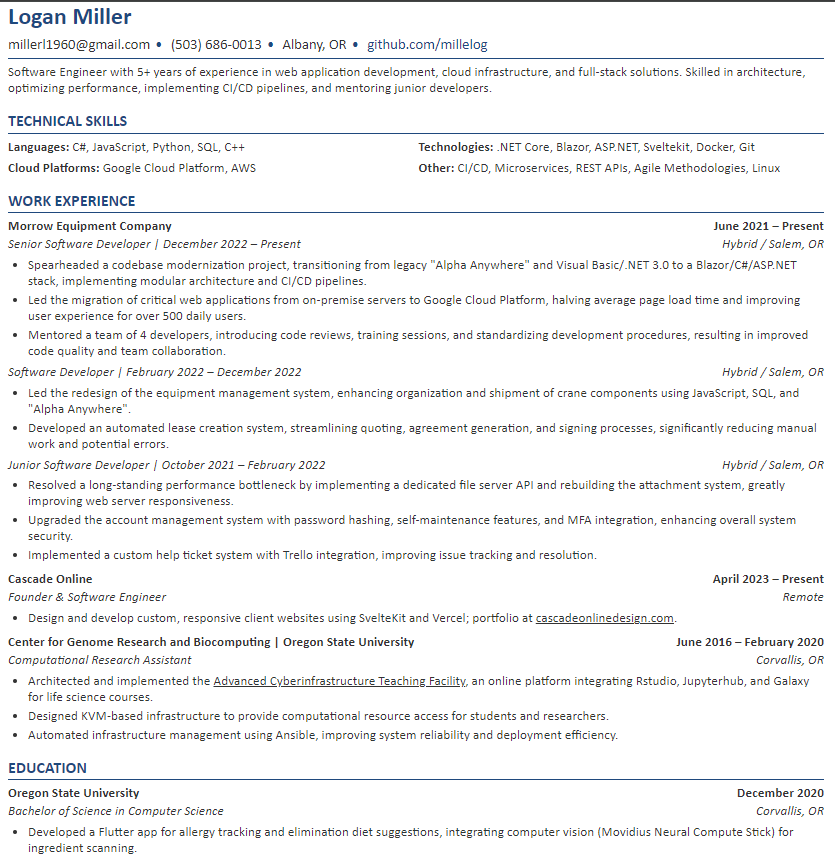
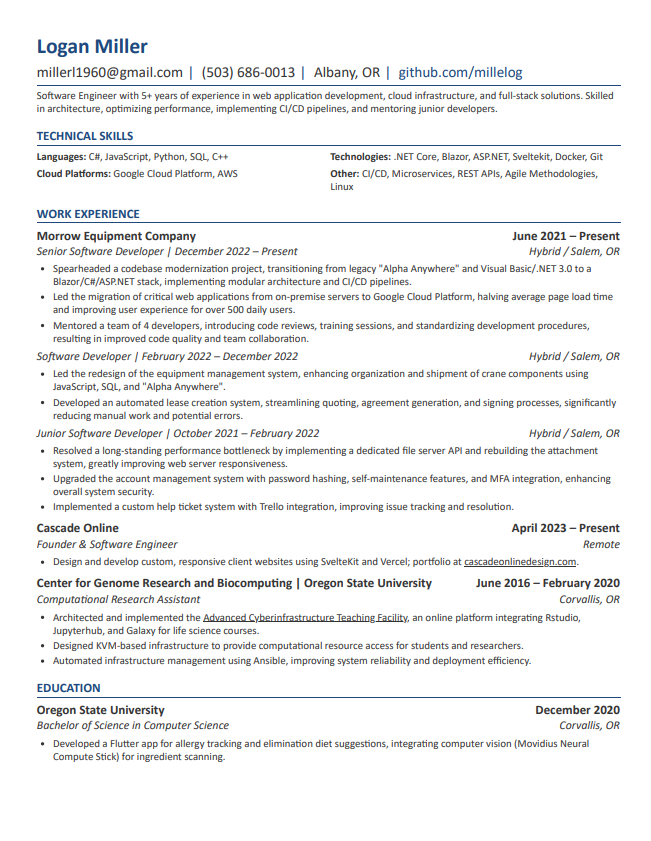
Cover letter working, main.yaml, readme updates

Changed region(s): [[0.0, 0.0, 1.0, 0.9893]]

diff --git a/templates/resume_template.html b/templates/resume_template.html
@@ -21,7 +21,7 @@
         h1 {
             color: #1F497D;
             margin: 0 0 5px 0;
-            font-size: 18pt;
+            font-size: 20pt;
         }
         h2 {
             color: #1F497D;
@@ -32,10 +32,10 @@
         }
         .contact-info {
             margin-bottom: 5px;
-            font-size: 11pt;
+            font-size: 14pt;
         }
         .contact-info span:not(:last-child)::after {
-            content: "•";
+            content: "|";
             margin: 0 5px;
             color: #1F497D;
         }
@@ -50,11 +50,13 @@
             justify-content: space-between;
             font-weight: bold;
             margin-bottom: 2px;
+            font-size: 12pt;
         }
         .job-subheader {
             display: flex;
             justify-content: space-between;
             font-style: italic;
+            font-size: 11pt;
         }
         ul {
             margin: 5px 0;

diff --git a/templates/cover_letter_template.html b/templates/cover_letter_template.html
@@ -28,10 +28,10 @@
             font-size: 11pt;
         }
         .contact-info span:not(:last-child)::after {
-            content: "•";
+            content: "|";
             margin: 0 5px;
             color: #1F497D;
-        }
+        }       
         hr {
             border: none;
             border-top: 1px solid #1F497D;
@@ -58,7 +58,7 @@
     </div>
     <hr>
     <div class="content">
-        {{ content }}
+{{ content }}
     </div>
 </body>
 </html>

diff --git a/scripts/generate_cover_letter.py b/scripts/generate_cover_letter.py
@@ -4,6 +4,7 @@
 import os
 import sys
 import argparse
+import webbrowser
 from pathlib import Path
 from jinja2 import Environment, FileSystemLoader
 import yaml
@@ -14,6 +15,7 @@ project_root = os.path.abspath(os.path.join(os.path.dirname(__file__), '..'))
 sys.path.insert(0, project_root)
 
 from src.models.cover_letter import CoverLetter
+from src.models.resume import PersonalInfo
 
 def load_yaml(file_path):
     with open(file_path, 'r') as file:
@@ -26,11 +28,13 @@ def get_most_recent_yaml(directory):
     return max(yaml_files, key=os.path.getmtime)
 
 def main():
-    parser = argparse.ArgumentParser(description="Generate a cover letter from YAML data.")
+    parser = argparse.ArgumentParser(description="Generate a cover letter from YAML data and open in browser.")
     parser.add_argument("input", nargs='?', help="Path to the input YAML file (optional)")
     parser.add_argument("-o", "--output", help="Path to the output HTML file")
     parser.add_argument("-t", "--template", default="templates/cover_letter_template.html", 
                         help="Path to the HTML template file")
+    parser.add_argument("-m", "--master", default="data/resumes/master.yaml",
+                        help="Path to the master resume YAML file")
     args = parser.parse_args()
 
     # If no input file is specified, use the most recent YAML file
@@ -44,6 +48,11 @@ def main():
         print(f"Error: Input file '{args.input}' does not exist.")
         return
 
+    # Ensure the master resume file exists
+    if not os.path.isfile(args.master):
+        print(f"Error: Master resume file '{args.master}' does not exist.")
+        return
+
     # Set default output path if not provided
     if args.output is None:
         input_path = Path(args.input)
@@ -54,21 +63,29 @@ def main():
 
     try:
         # Load the cover letter data from YAML
-        yaml_data = load_yaml(args.input)
-        cover_letter = CoverLetter(**yaml_data)
+        cover_letter_data = load_yaml(args.input)
+        cover_letter = CoverLetter(**cover_letter_data)
+        
+        # Load the personal info from the master resume YAML
+        master_data = load_yaml(args.master)
+        personal_info = PersonalInfo(**master_data['personal_info'])
         
         # Set up Jinja2 environment
         env = Environment(loader=FileSystemLoader(os.path.dirname(args.template)))
         template = env.get_template(os.path.basename(args.template))
         
         # Render the HTML
-        html_content = template.render(content=cover_letter.content)
+        html_content = template.render(content=cover_letter.content, personal_info=personal_info)
         
         # Write the HTML to file
         with open(args.output, 'w') as f:
             f.write(html_content)
         
         print(f"Cover letter generated successfully: {args.output}")
+        
+        # Open the generated HTML file in the default browser
+        webbrowser.open('file://' + os.path.realpath(args.output))
+        print("Cover letter opened in your default web browser.")
     except Exception as e:
         print(f"Error generating cover letter: {e}")
 

diff --git a/README.md b/README.md
@@ -21,11 +21,11 @@ This Resume Management System is a Python-based tool designed to generate and ma
 resume-management-system/
 ├── data/
 │   ├── resumes/
-│   │   └── logan_miller.yaml
+│   │   └── master.yaml
 │   ├── letters/
 │   │   └── microsoft_software_engineer.yaml
 │   └── prompts/
-│       └── experience.txt
+│       └── resume.txt
 ├── src/
 │   ├── generators/
 │   │   └── resume_generator.py
@@ -37,6 +37,7 @@ resume-management-system/
 ├── templates/
 │   └── resume_template.html
 ├── scripts/
+│   ├── generate_cover_letter.py
 │   └── generate_resume.py
 ├── output/
 │   └── .gitkeep
@@ -62,32 +63,58 @@ resume-management-system/
    ```
    pip install -r requirements.txt
    ```
-
 ## Usage
 
-1. Edit your resume data:
-   Open `data/resumes/logan_miller.yaml` and update it with your personal information, work experience, education, and skills.
+1. Maintain your master resume data:
+   Open `data/resumes/master.yaml` and keep it updated with your comprehensive personal information, work experience, education, and skills. This serves as your "source of truth" for all resume variations.
 
-2. Generate your resume:
+2. Prepare job-specific resume data:
+   a. Obtain the job description for the position you're applying to.
+   b. Use an LLM (like ChatGPT) with the prompt found in `data/prompts/resume.txt`.
+   c. Provide the LLM with the job description and your `master.yaml` content.
+   d. The LLM will generate an optimized YAML for the specific job.
+   e. Save this optimized YAML as `data/resumes/job_specific_resume.yaml`.
+
+3. Generate your tailored resume:
    ```
-   python scripts/generate_resume.py data/resumes/logan_miller.yaml
+   python scripts/generate_resume.py data/resumes/job_specific_resume.yaml
    ```
 
-3. Generate your cover letter, defaults to most recently added yaml file, otherwise you can specify:
-   ```
-   python scripts/generate_cover_letter.py
-   ```
+4. Prepare job-specific cover letter data:
+   a. Use an LLM with the prompt found in `data/prompts/cover_letter.txt`.
+   b. Provide the LLM with the job description and relevant details from your `master.yaml`.
+   c. The LLM will generate cover letter content.
+   d. Save this content as `data/cover_letters/job_specific_cover_letter.yaml`.
 
+5. Generate your tailored cover letter:
+   ```
+   python scripts/generate_cover_letter.py data/cover_letters/job_specific_cover_letter.yaml
+   ```
+   If no file is specified, it defaults to the most recently added YAML file in the cover_letters directory.
+
+6. Review and edit the generated HTML files:
+   Open the generated HTML files in your browser to review. Make any necessary adjustments directly in the respective YAML files and regenerate if needed.
+
+7. Print to PDF:
+   a. Open the final HTML files in a web browser.
+   b. Use the browser's print function (usually Ctrl+P or Cmd+P).
+   c. Set the destination to "Save as PDF".
+   d. Adjust margins if necessary (usually "None" works best).
+   e. Save the PDF files of your resume and cover letter.
+
+Your tailored resume and cover letter are now ready for submission!
+
+Note: The `data/prompts/` directory contains various prompts for different aspects of the resume and cover letter generation process. Feel free to adjust these prompts to better suit your needs or to generate other job application materials.
 
 ## Customization
 
-### Resume Content
+### Content
 
-Edit the YAML file in `data/resumes/` to update your resume content. You can create multiple YAML files for different versions of your resume.
+Edit the YAML files in `data/resumes/` to update your resume and cover letter content. You can create multiple YAML files for different versions.
 
-### Resume Template
+### Templates
 
-Modify the `templates/resume_template.html` file to change the layout and styling of your resume. The template uses Jinja2 syntax for dynamic content insertion.
+Modify the `templates/*.html` files to change the layout and styling of your resume or cover letter. The template uses Jinja2 syntax for dynamic content insertion.
 
 ### Python Code
 
